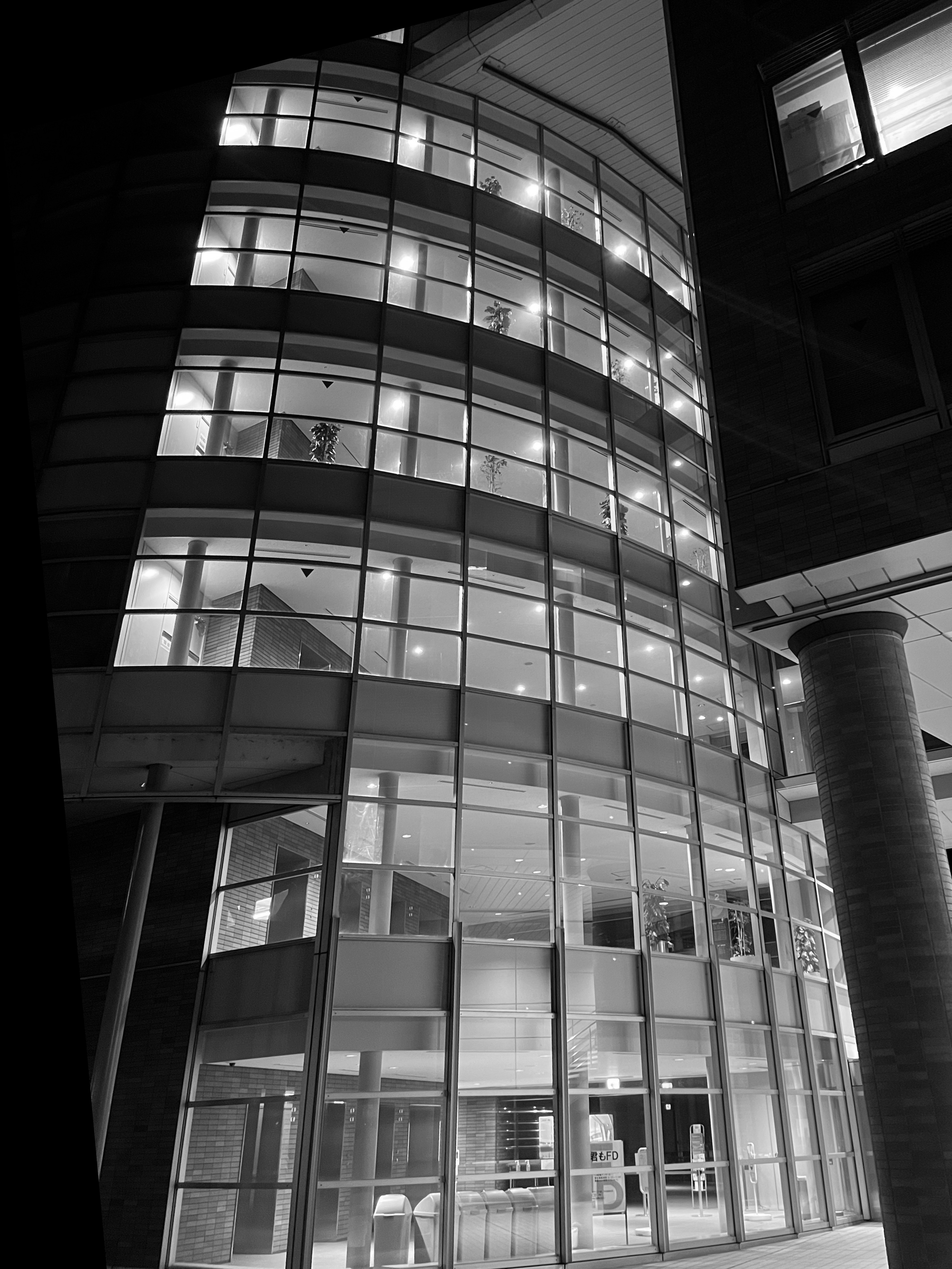
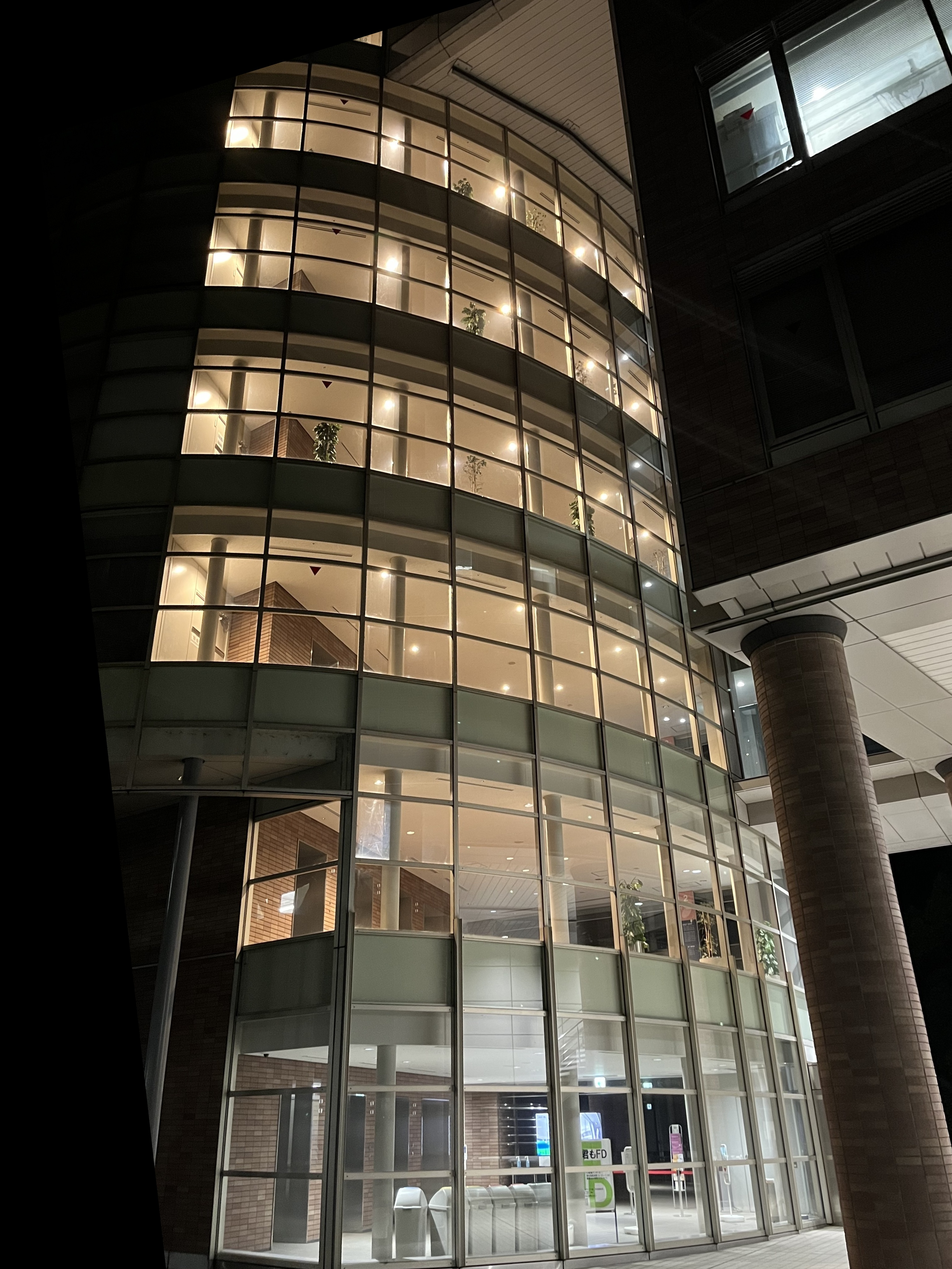
wip

diff --git a/exercise0627/ex0627.py b/exercise0627/ex0627.py
@@ -1,4 +1,5 @@
 from pprint import pprint
+from typing import Type
 import numpy as np
 import numpy.matlib
 import cv2
@@ -29,6 +30,7 @@ def match_feature(img1, img2):
                for m in good]  # マッチした２枚目の特徴点
     img3 = cv2.drawMatchesKnn(img1, kp1, img2, kp2, good2,
                               None, flags=cv2.DrawMatchesFlags_NOT_DRAW_SINGLE_POINTS)  # マッチ状況の描画
+    img3=cv2.cvtColor(img3,cv2.COLOR_RGB2BGR)
     plt.imshow(img3), plt.show()  # 確認のためマッチの様子を出力
 
     img1_pt_s = []  # 重複削除後のマッチした特徴点
@@ -50,8 +52,8 @@ current_dir = os.getcwd()
 # img2=cv2.imread(current_dir+"/images/img2.jpg",cv2.IMREAD_GRAYSCALE)
 # img1=cv2.imread(current_dir+"/einstein/einstein1.jpg",cv2.IMREAD_GRAYSCALE)
 # img2=cv2.imread(current_dir+"/einstein/einstein2.jpg",cv2.IMREAD_GRAYSCALE)
-img1 = cv2.imread(current_dir+"/sosokan/IMG_8573.jpg", cv2.IMREAD_GRAYSCALE)
-img2 = cv2.imread(current_dir+"/sosokan/IMG_8574.jpg", cv2.IMREAD_GRAYSCALE)
+img1 = cv2.imread(current_dir+"/sosokan/IMG_8573.jpg")#, cv2.IMREAD_GRAYSCALE)
+img2 = cv2.imread(current_dir+"/sosokan/IMG_8574.jpg")#, cv2.IMREAD_GRAYSCALE)
 # img1=cv2.imread(current_dir+"/fukinuke/IMG_8577.jpg",cv2.IMREAD_GRAYSCALE)
 # img2=cv2.imread(current_dir+"/fukinuke/IMG_8579.jpg",cv2.IMREAD_GRAYSCALE)
 # img1=cv2.imread(current_dir+"/tana/IMG_8592.jpg",cv2.IMREAD_GRAYSCALE)
@@ -105,17 +107,26 @@ def interpolate(i, imgL, imgR, disparity_raw):
             x_i = int((2 - i) * x1 + (i - 1) * x2)  # 左側画像と右側座標の間の位置を決定
             # 移動先が画像のサイズを超えていないか確認
             if 0 <= x_i < img_interp.shape[1] and 0 <= x2 < imgR.shape[1]:
-                img_interp[y, x_i] = int(
-                    (2 - i) * imgL[y, x1] + (i - 1) * imgR[y, x2])  # 　移動先の画素値を決定
+                for col in range (3):
+                    img_interp[y, x_i,col] = int(
+                        (2 - i) * imgL[y, x1,col] + (i - 1) * imgR[y, x2,col])  # 　移動先の画素値を決定
+                    if img_interp[y, x_i,col]==0:# 画素値が入っていなかった場合
+                        try:
+                            img_interp[y, x_i,col]=np.average(img_interp[y-1, x_i,col]+img_interp[y, x_i-1,col],img_interp[y-1, x_i-1,col])# 
+                        except TypeError:
+                            pass
+                        except np.AxisError:
+                            pass
     return img_interp.astype(np.uint8)
 
 
+"""
 for i in range(1, 10):
     deg = 1+i/10  # 左を１，右を２としたときのバーチャルカメラの位置
     # view interpolationを実行
-    img_interp = interpolate(deg, img1r, img2r, disparity_raw)
-    cv2.imwrite(
-        current_dir+f"/results/view_interpolation/img_interp{deg}.jpg", img_interp)
+"""
+img_interp = interpolate(1.5, img1r, img2r, disparity_raw)
+cv2.imwrite(current_dir+f"/results/view_interpolation/img_interp1.5_denoise.jpg", img_interp)
 
 
 # import disparity_interpolation
